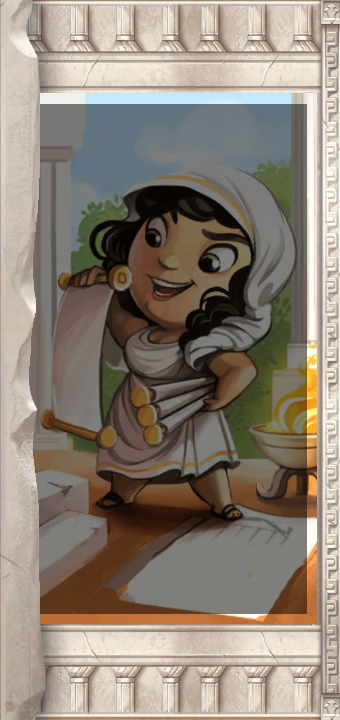
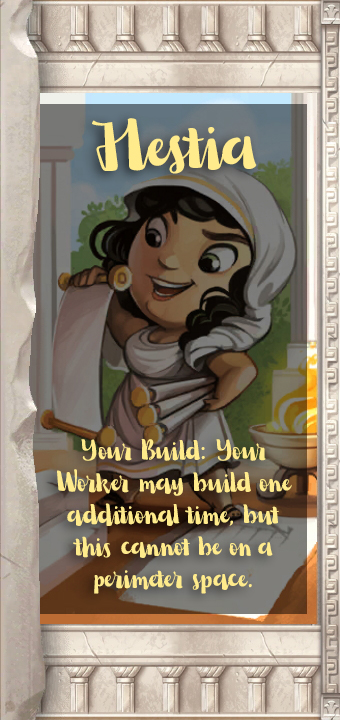
gods info cards update

Changed region(s): [[0.1471, 0.6111, 0.8529, 0.825], [0.2647, 0.1528, 0.7647, 0.2444]]

diff --git a/src/main/java/it/polimi/ingsw/view/GUIpackage/GodSelectionPanel.java b/src/main/java/it/polimi/ingsw/view/GUIpackage/GodSelectionPanel.java
@@ -1,9 +1,7 @@
 package it.polimi.ingsw.view.GUIpackage;
 
-import it.polimi.ingsw.model.Model;
 import it.polimi.ingsw.view.GUIpackage.Components.CustomButton;
 import it.polimi.ingsw.view.GUIpackage.Components.GodsButton;
-import it.polimi.ingsw.view.ModelView;
 
 import javax.swing.*;
 import java.awt.*;
@@ -19,18 +17,17 @@ import java.util.ArrayList;
 
 public class GodSelectionPanel extends JPanel implements ActionListener, MouseListener, PropertyChangeListener {
 
-    private PropertyChangeSupport godSelectionListeners = new PropertyChangeSupport(this);
+    private final PropertyChangeSupport godSelectionListeners = new PropertyChangeSupport(this);
     private int playersPerGame = 0;
-    private ArrayList<String[]> selectedGods = new ArrayList<>();
-    private ArrayList<GodsButton> godsButton = new ArrayList<>();
-    private JPanel buttonPanel;
-    private CustomButton submit;
-    private JLabel updates;
+    private final ArrayList<String[]> selectedGods = new ArrayList<>();
+    private final ArrayList<GodsButton> godsButton = new ArrayList<>();
+    private final JPanel buttonPanel;
+    private final CustomButton submit;
+    private final JLabel updates;
     private String selectedGod = "";
-    private boolean myturn = false;
+    private boolean myTurn = false;
     private JLabel label;
 
-    private JLabel description;
     private ImageIcon imagedx;
     private ImageIcon imagesx;
     private Dimension frameDimension;
@@ -58,10 +55,6 @@ public class GodSelectionPanel extends JPanel implements ActionListener, MouseLi
             }
         };
 
-
-
-        description = new JLabel();
-
         this.setLayout(new BoxLayout(this, BoxLayout.X_AXIS));
         panelsx.setLayout(new BoxLayout(panelsx, BoxLayout.Y_AXIS));
         frameDimension=GUI.getDimension();
@@ -83,7 +76,6 @@ public class GodSelectionPanel extends JPanel implements ActionListener, MouseLi
         label = new JLabel("<html>Opponent player<br>&thinsp &thinsp is selecting...</html>");
         label.setForeground(new Color(255, 235, 140));
         label.setFont(font.deriveFont(Font.PLAIN,60));
-        description.setFont(font);
         buttonPanel = new JPanel(new FlowLayout());
         buttonPanel.setOpaque(false);
         submit = new CustomButton("/GodSelection/next/next");
@@ -97,8 +89,7 @@ public class GodSelectionPanel extends JPanel implements ActionListener, MouseLi
         panelsx.add(submit);
         panelsx.add(Box.createVerticalStrut(40));
         panelsx.add(updates);
-
-        paneldx.add(description);
+;
         this.add(panelsx);
         this.add(paneldx);
         submit.setEnabled(false);
@@ -107,10 +98,10 @@ public class GodSelectionPanel extends JPanel implements ActionListener, MouseLi
 
     @Override
     public void actionPerformed(ActionEvent actionEvent) {
-        if (myturn) {
+        if (myTurn) {
             if (actionEvent.getSource().equals(submit)) {
                 godSelectionListeners.firePropertyChange("godSelected", false, selectedGod);
-                myturn = false;
+                myTurn = false;
             } else {
                 if (selectedGod.equals(((JButton) actionEvent.getSource()).getName())) {
                     selectedGod = "";
@@ -153,7 +144,7 @@ public class GodSelectionPanel extends JPanel implements ActionListener, MouseLi
                 }
             }
         } else if(propertyChangeEvent.getPropertyName().equalsIgnoreCase("myTurn")){
-            myturn=true;
+            myTurn =true;
             label.setText("Select your god!");
             label.setFont(font.deriveFont(Font.PLAIN,80));
 
@@ -201,10 +192,8 @@ public class GodSelectionPanel extends JPanel implements ActionListener, MouseLi
     @Override
     public void mouseEntered(MouseEvent e) {
         if(e.getSource() instanceof GodsButton) {
-
             imagedx=new ImageIcon(this.getClass().getResource("/GodSelection/"+((GodsButton) e.getSource()).getName().toLowerCase()+" info.jpg"));
             paneldx.repaint();
-            description.setText(((GodsButton) e.getSource()).getName());
         }
     }
 

diff --git a/src/main/java/it/polimi/ingsw/view/GUIpackage/GeneralGodsSelectionPanel.java b/src/main/java/it/polimi/ingsw/view/GUIpackage/GeneralGodsSelectionPanel.java
@@ -23,7 +23,6 @@ public class GeneralGodsSelectionPanel extends JPanel implements ActionListener,
     private ArrayList<GodsButton> godsButton = new ArrayList<>();
     private ArrayList<String> selectedGods = new ArrayList<>();
     private JLabel title;
-    private JLabel description;
     private JButton submit;
     private int playerPerGame = 0;
     private ImageIcon imagedx;
@@ -57,12 +56,8 @@ public class GeneralGodsSelectionPanel extends JPanel implements ActionListener,
         Font font;
         title = new JLabel("Select gods");
         title.setForeground(new Color(255, 235, 140));
-        description = new JLabel();
         FlowLayout flow = new FlowLayout(FlowLayout.CENTER, 30,30);
         submit = new CustomButton("/GodSelection/next/next");
-
-
-
         submit.setName("submit");
         playerPerGame = model.getPlayers().size();
         gods = model.getGods();
@@ -101,17 +96,8 @@ public class GeneralGodsSelectionPanel extends JPanel implements ActionListener,
             font = title.getFont();
         }
 
-        description.setFont(font);
         title.setFont(font.deriveFont(Font.PLAIN,frameDimension.width/15));
-
-
-
-
-
-
-
         godsList.add(submit);
-        paneldx.add(description);
         panelsx.add(Box.createRigidArea(new Dimension(0,(int) (frameDimension.height/30))));
         panelsx.add(title);
         panelsx.add(Box.createRigidArea(new Dimension(0,(int) (frameDimension.height/18))));
@@ -187,10 +173,9 @@ public class GeneralGodsSelectionPanel extends JPanel implements ActionListener,
     @Override
     public void mouseEntered(MouseEvent e) {
         if(e.getSource() instanceof GodsButton) {
-
-            imagedx=new ImageIcon(this.getClass().getResource("/GodSelection/"+((GodsButton) e.getSource()).getName().toLowerCase()+" info.jpg"));
+            imagedx=new ImageIcon(this.getClass().getResource("/GodSelection/"+
+                    ((GodsButton) e.getSource()).getName().toLowerCase()+" info.jpg"));
             paneldx.repaint();
-            description.setText("<html>"+((GodsButton) e.getSource()).getName()+"<br><br><br><br><br>ciaoo</html");
         }
     }
 
